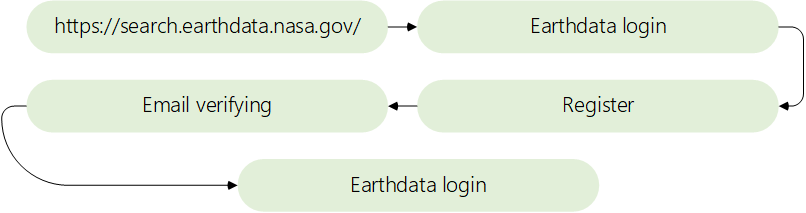
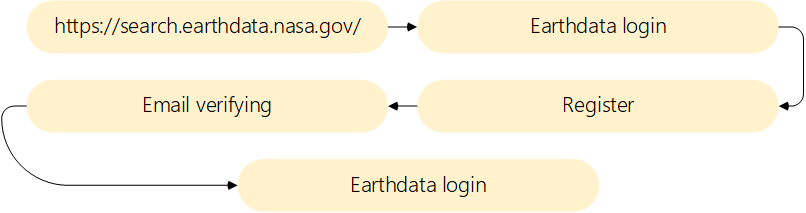
General update.

diff --git a/Section02/UserCreation/Readme.md b/Section02/UserCreation/Readme.md
@@ -24,8 +24,8 @@ Para la descarga de los modelos de terreno y la información climatológica obte
 Antes de iniciar con la creación de la cuenta NASA Earthdata, se recomienda crear una cuenta de correo electrónico de [Google](https://mail.google.com/) que podrá utilizar para crear posteriormente una cuenta en [GitHub](https://github.com/) y clonar el contenido completo de este curso, incluidos los paquetes de datos, scripts y documentación oficial.
 
 <div align="center">
-<br><img alt="R.LTWB" src="https://github.com/rcfdtools/R.LTWB/blob/main/Section02/UserCreation/Graph/UserCreationFlowchart.png" width="40%"><br>
-<sub>Convenciones del diagrama: Clases de entidad en gris, Geo-procesos en verde y Procesos manuales en amarillo.</sub><br><br>
+<br><img alt="R.LTWB" src="https://github.com/rcfdtools/R.LTWB/blob/main/Section02/UserCreation/Graph/UserCreationFlowchart.png" width="500%"><br>
+<sub>Convenciones del diagrama: Procesos manuales en amarillo.</sub><br><br>
 </div>
 
 1. Ingresar al servicio web [Eathdata](https://search.earthdata.nasa.gov) de la NASA y dar clic en [Earthdata login](https://d53njncz5taqi.cloudfront.net/login?ee=prod&state=https%3A%2F%2Fsearch.earthdata.nasa.gov%2Fsearch). 
